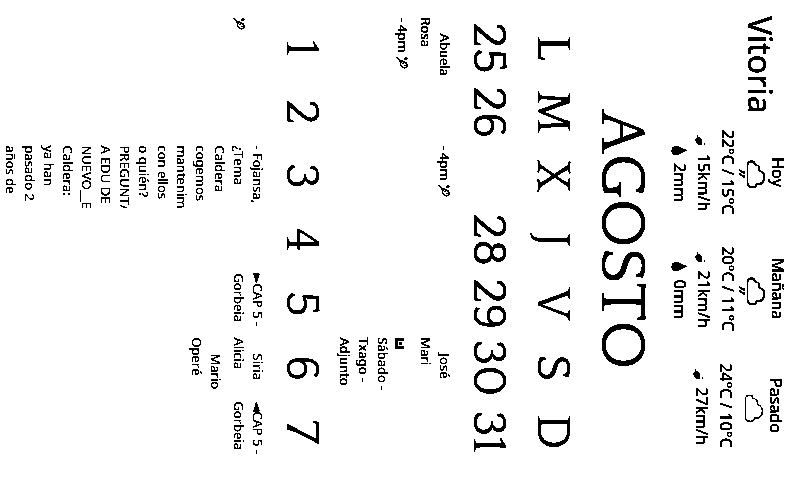
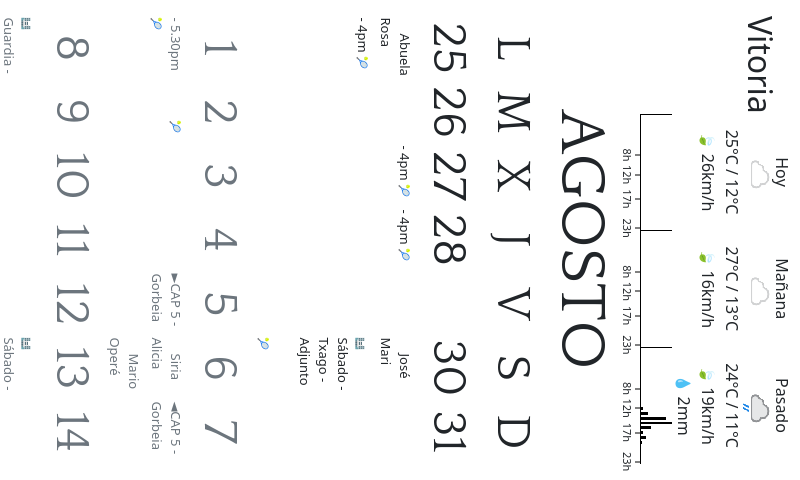
Agregar soporte para gráficos de lluvia en el calendario y ajustar estilos de visualización

diff --git a/render/calendar_template.html b/render/calendar_template.html
@@ -5,28 +5,75 @@
     <link rel="stylesheet" href="styles.css" />
   </head>
   <body>
-    <div class="last-update-time">{lastUpdateTime}</div>
+    <div class="last-update-time">$lastUpdateTime</div>
     <div class="container p-0 m-0">
       <!-- Calendar -->
       <div class="calendar shadow bg-white p-3">
         <!-- Last update hour -->
         <!-- Weather -->
-        <div>{weather}</div>
+        <div>$weather</div>
         <!-- Month -->
         <div class="align-items-center text-center">
-          <h3 class="month font-weight-bold mb-0 text-uppercase">{month}</h3>
+          <h3 class="month font-weight-bold mb-0 text-uppercase">$month</h3>
         </div>
         <!-- Battery -->
         <div class="batt_container">
-          <img class="{battText}" src="battery.png" />
+          <img class="$battText" src="battery.png" />
         </div>
         <!-- Days of week -->
         <ol class="day-names list-unstyled text-center">
-          {dayOfWeek}
+          $dayOfWeek
         </ol>
         <!-- Calendar and events -->
-        <div>{events}</div>
+        <div>$events</div>
       </div>
     </div>
+    <script>
+      // const rainDataToday = [
+      //   0, 0, 0, 0, 0, 0, 0, 1, 2, 0, 0, 0, 0, 0, 0, 0, 3, 5, 2, 0, 0, 0, 0, 0,
+      // ];
+      // const rainDataTomorrow = [
+      //   0, 0, 0, 0, 0, 0, 0, 0, 0, 0, 1, 1, 2, 2, 0, 0, 0, 0, 0, 0, 0, 0, 0, 0,
+      // ];
+      // const rainDataAfter = [
+      //   0, 0, 0, 0, 0, 0, 0, 0, 0, 0, 0, 0, 0, 0, 0, 0, 0, 0, 0, 0, 0, 0, 0, 0,
+      // ];
+      const rainDataToday = [$rainDataToday];
+      const rainDataTomorrow = [$rainDataTomorrow];
+      const rainDataAfter = [$rainDataAfter];
+
+      // Nueva configuración de ticks
+      const HOURS_MARKS = [8, 12, 17, 23];
+
+      function renderChart(containerId, xId, data) {
+        const max = Math.max(...data) || 1;
+        const chart = document.getElementById(containerId);
+        const xAxis = document.getElementById(xId);
+        // Barras
+        data.forEach((mm) => {
+          const bar = document.createElement("div");
+          bar.className = "bar";
+          bar.style.height = (mm / max) * 100 + "%";
+          chart.appendChild(bar);
+        });
+
+        // Calcular posiciones de ticks en base a nº de barras
+        const barCount = data.length;
+        const barWidthPercent = 100 / barCount;
+
+        HOURS_MARKS.forEach((h) => {
+          const tick = document.createElement("div");
+          tick.className = "tick";
+          tick.style.left = h * barWidthPercent + barWidthPercent / 2 + "%";
+          tick.textContent = h + "h";
+          xAxis.appendChild(tick);
+        });
+      }
+
+      renderChart("rainToday", "xToday", rainDataToday);
+      renderChart("rainTomorrow", "xTomorrow", rainDataTomorrow);
+      renderChart("rainAfter", "xAfter", rainDataAfter);
+      window.status = "ready";
+    </script>
   </body>
 </html>

diff --git a/render/styles.css b/render/styles.css
@@ -206,7 +206,7 @@ div.last-update-time {
 
 div.weather_container {
   width: 100%;
-  height: 110px;
+  height: 150px;
   margin-bottom: 15px;
   display: flex;
   flex-direction: row;
@@ -250,7 +250,7 @@ div.weather_container .weather_days .weather_day .snow {
 }
 
 div.weather_container .weather_days .weather_day .no_rain {
-  height: 1.2rem;
+  height: 24px;
 }
 
 div.weather_container .now {
@@ -309,6 +309,48 @@ div.batt_container .battery0 {
 
 div.batt_container .batteryHide {
   display: none;
+}
+.rain-wrapper {
+  display: flex;
+  align-items: flex-end;
+  gap: 0.2rem;
+}
+
+.rain-chart {
+  display: flex;
+  align-items: flex-end;
+  height: 2rem; /* máximo 2rem */
+  flex: 1;
+  position: relative;
+  border-left: 1px solid #000;
+  border-bottom: 1px solid #000;
+}
+.bar {
+  flex: 1;
+  margin: 0 1px;
+  background: #000;
+}
+
+/* Marcas en X */
+.x-axis {
+  position: relative;
+  height: 1rem;
+  font-size: 0.7rem;
+  margin-top: 0px;
+}
+.tick {
+  position: absolute;
+  text-align: center;
+  transform: translateX(-50%);
+  top: 0;
+}
+.tick::before {
+  content: "";
+  display: block;
+  width: 1px;
+  height: 5px;
+  background: #000;
+  margin: 0 auto 0px;
 }
 
 /*

diff --git a/render/render.py b/render/render.py
@@ -13,6 +13,7 @@ RPi device, while using a ESP32 or PiZero purely to just retrieve the image from
 import subprocess
 from time import sleep
 from datetime import datetime, timedelta
+from string import Template
 from PIL import Image
 import logging
 import pathlib
@@ -32,18 +33,27 @@ class RenderHelper:
 
         # Usamos wkhtmltoimage para renderizar el HTML a PNG
         try:
-            subprocess.run([
+            cmd = [
                 "wkhtmltoimage",
                 "--enable-local-file-access",
-            "--disable-smart-width",
-            "--width", str(self.imageWidth),
-            "--height", str(self.imageHeight),
-            "--crop-w", str(self.imageWidth),
-            "--crop-h", str(self.imageHeight),
+                "--enable-javascript",
+                "--no-stop-slow-scripts",
+                "--javascript-delay", "4000",    # ajusta si hace falta
+                "--window-status", "ready",      # espera a window.status = 'ready'
+                "--disable-smart-width",
+                "--debug-javascript",
+                "--width", str(self.imageWidth),
+                "--height", str(self.imageHeight),
+                "--crop-w", str(self.imageWidth),
+                "--crop-h", str(self.imageHeight),
                 self.htmlFile,
                 output_file
-            ], check=True)
+            ]
+            subprocess.run(cmd, check=True, timeout=30)  # usa timeout de Python
             self.logger.info(f'Screenshot captured and saved to {output_file}')
+        except subprocess.TimeoutExpired:
+            self.logger.error('wkhtmltoimage timed out')
+            raise
         except subprocess.CalledProcessError as e:
             self.logger.error(f'Error running wkhtmltoimage: {e}')
             raise
@@ -89,6 +99,9 @@ class RenderHelper:
             else:
                 datetime_str = '{}{}am'.format(str(datetimeObj.hour), datetime_str)
         return datetime_str
+    
+    
+
 
     def process_inputs(self, calDict):
         # calDict = {'events': eventList, 'calStartDate': calStartDate, 'today': currDate, 'lastRefresh': currDatetime, 'batteryLevel': batteryLevel, 'weather' weather}
@@ -171,6 +184,22 @@ class RenderHelper:
                 weatherText += '<div>💧 ' + str(round(weather['forecast']['forecastday'][j]['day']['totalprecip_mm'])) + 'mm</div>\n'
               else:
                 weatherText += '<div class="no_rain"></div>\n'
+              match j:
+                case 0:
+                  weatherText += '<div class="rain-wrapper">'
+                  weatherText += '<div class="rain-chart" id="rainToday"></div>'
+                  weatherText += '</div>'
+                  weatherText += '<div class="x-axis" id="xToday"></div>'
+                case 1:
+                  weatherText += '<div class="rain-wrapper">'
+                  weatherText += '<div class="rain-chart" id="rainTomorrow"></div>'
+                  weatherText += '</div>'
+                  weatherText += '<div class="x-axis" id="xTomorrow"></div>'
+                case 2:
+                  weatherText += '<div class="rain-wrapper">'
+                  weatherText += '<div class="rain-chart" id="rainAfter"></div>'
+                  weatherText += '</div>'
+                  weatherText += '<div class="x-axis" id="xAfter"></div>'
               weatherText += '</div>\n'
             weatherText += '</div>\n'
             weatherText += '</div>\n'
@@ -228,20 +257,65 @@ class RenderHelper:
         cal_events_text += '</ol>\n'
         lastUpdateTime = self.get_short_time(datetime.now(), is24hour)
 
+        def build_rain_arrays(weathers):
+            zero_list = ["0.00"] * 24
+            zero = ", ".join(zero_list)
+            if not weathers or len(weathers) == 0:
+                return zero, zero, zero
+            try:
+                first_weather = weathers[0].get("weather", {}) or {}
+                forecast_days = first_weather.get("forecast", {}).get("forecastday", []) or []
+
+                def day_str(idx: int) -> str:
+                    if idx >= len(forecast_days):
+                        return zero
+                    hours = forecast_days[idx].get("hour", []) or []
+                    vals = []
+                    for h in range(24):
+                        v = 0
+                        if h < len(hours):
+                            v = hours[h].get("precip_mm", 0) or 0
+                        try:
+                            v = float(v)
+                        except Exception:
+                            v = 0.0
+                        vals.append(f"{v:.2f}")
+                    return ", ".join(vals)
+
+                return day_str(0), day_str(1), day_str(2)
+            except Exception as e:
+                self.logger.warning(f"Failed to extract hourly rain data: {e}")
+                return zero, zero, zero
+
+        rainDataToday, rainDataTomorrow, rainDataAfter = build_rain_arrays(calDict.get('weathers'))
+
 
         # Append the bottom and write the file
         htmlFile = open(self.currPath + '/calendar.html', "w")
-        htmlFile.write(calendar_template.format(month=month_name, battText=battText, dayOfWeek=cal_days_of_week,
-                                                events=cal_events_text, weather=weatherText, lastUpdateTime=lastUpdateTime))
-        htmlFile.close()
+        tmpl = Template(calendar_template)
+        html = tmpl.safe_substitute(
+            month=month_name,
+            battText=battText,
+            dayOfWeek=cal_days_of_week,
+            events=cal_events_text,
+            weather=weatherText,
+            lastUpdateTime=lastUpdateTime,
+            rainDataToday=rainDataToday,
+            rainDataTomorrow=rainDataTomorrow,
+            rainDataAfter=rainDataAfter,
+        )
+
+        with open(self.currPath + '/calendar.html', "w") as htmlFile:
+            htmlFile.write(html)
+            htmlFile.close()
 
         self.logger.info('HTML generated')
 
         calBlackImage, calRedImage = self.get_screenshot()
 
         threshold = 220  # Puedes ajustar este valor (0-255)
-        calBlackImage = calBlackImage.convert('L').point(lambda x: 0 if x < threshold else 255, '1')
-        calRedImage = calRedImage.convert('L').point(lambda x: 0 if x < threshold else 255, '1')
+        # calBlackImage = calBlackImage.convert('L').point(lambda x: 0 if x < threshold else 255, '1')
+        # calRedImage = calRedImage.convert('L').point(lambda x: 0 if x < threshold else 255, '1')
         calBlackImage.save(self.currPath + '/calendar_black.png')
         calRedImage.save(self.currPath + '/calendar_red.png')
 
